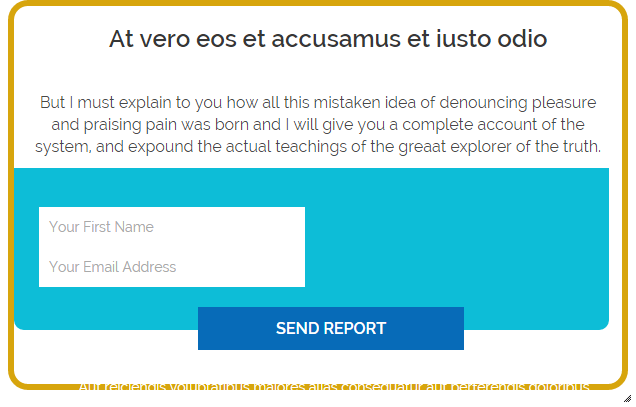
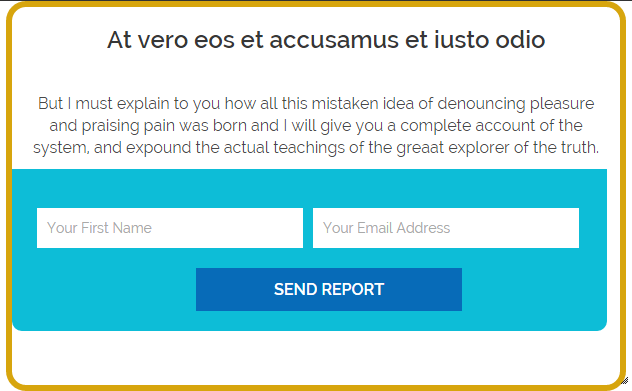
#bugFix custom fields remove for CTA #bugFix update Pop-Ups preview image
git-svn-id: https://plugins.svn.wordpress.org/marketing-optimizer/trunk@1198105 b8457f37-d9ea-0310-8a92-e5e31aec5664

diff --git a/includes/class.mo_ct_metaboxes.php b/includes/class.mo_ct_metaboxes.php
@@ -60,6 +60,12 @@ class mo_ct_metaboxes extends mo_metaboxes {
             $this,
             'mo_ct_get_ct_settings_metabox'
         ), 'mo_ct', 'normal', 'high');
+        
+        delete_post_meta_by_key( 'mo_ct_post_types' );
+        for($i=0; $i<5; $i++){
+            delete_post_meta_by_key( 'mo_ct_modal_width_'.$i );
+            delete_post_meta_by_key( 'mo_ct_modal_height_'.$i );
+        }
     }
 
     function mo_ct_display_meta_box_variation_stats($post){
@@ -94,6 +100,7 @@ class mo_ct_metaboxes extends mo_metaboxes {
                 $mo_ct_obj->save();
                 $mo_ct_obj->set_variations_arr_custom($mo_ct_obj->get_variation_ids_arr());
             }
+            
             if (! isset($_POST['mo_ct_post_types'])) {
                 $_POST['mo_ct_post_types']['lp'] = 0;
                 $_POST['mo_ct_post_types']['posts'] = 0;

diff --git a/marketing-optimizer.php b/marketing-optimizer.php
@@ -3,7 +3,7 @@
 /*
  * Plugin Name: Marketing Optimizer for Wordpress Plugin
  * URI: http://www.marketingoptimizer.com/?apcid=8381
- * Version: 20150710
+ * Version: 20150713
  * Description: Create Landing Pages for Wordpress
  * Author: Marketing Optimizer, customercare@marketingoptimizer.com
  * Author URI: http://www.marketingoptimizer.com/?apcid=8381
@@ -23,7 +23,7 @@ class mo_plugin
 
     CONST MO_DIRECTORY = 'marketing-optimizer';
 
-    public static $plugin_version = '20150710';
+    public static $plugin_version = '20150713';
 
     public static $plugin_name = 'marketing-optimizer';
 
